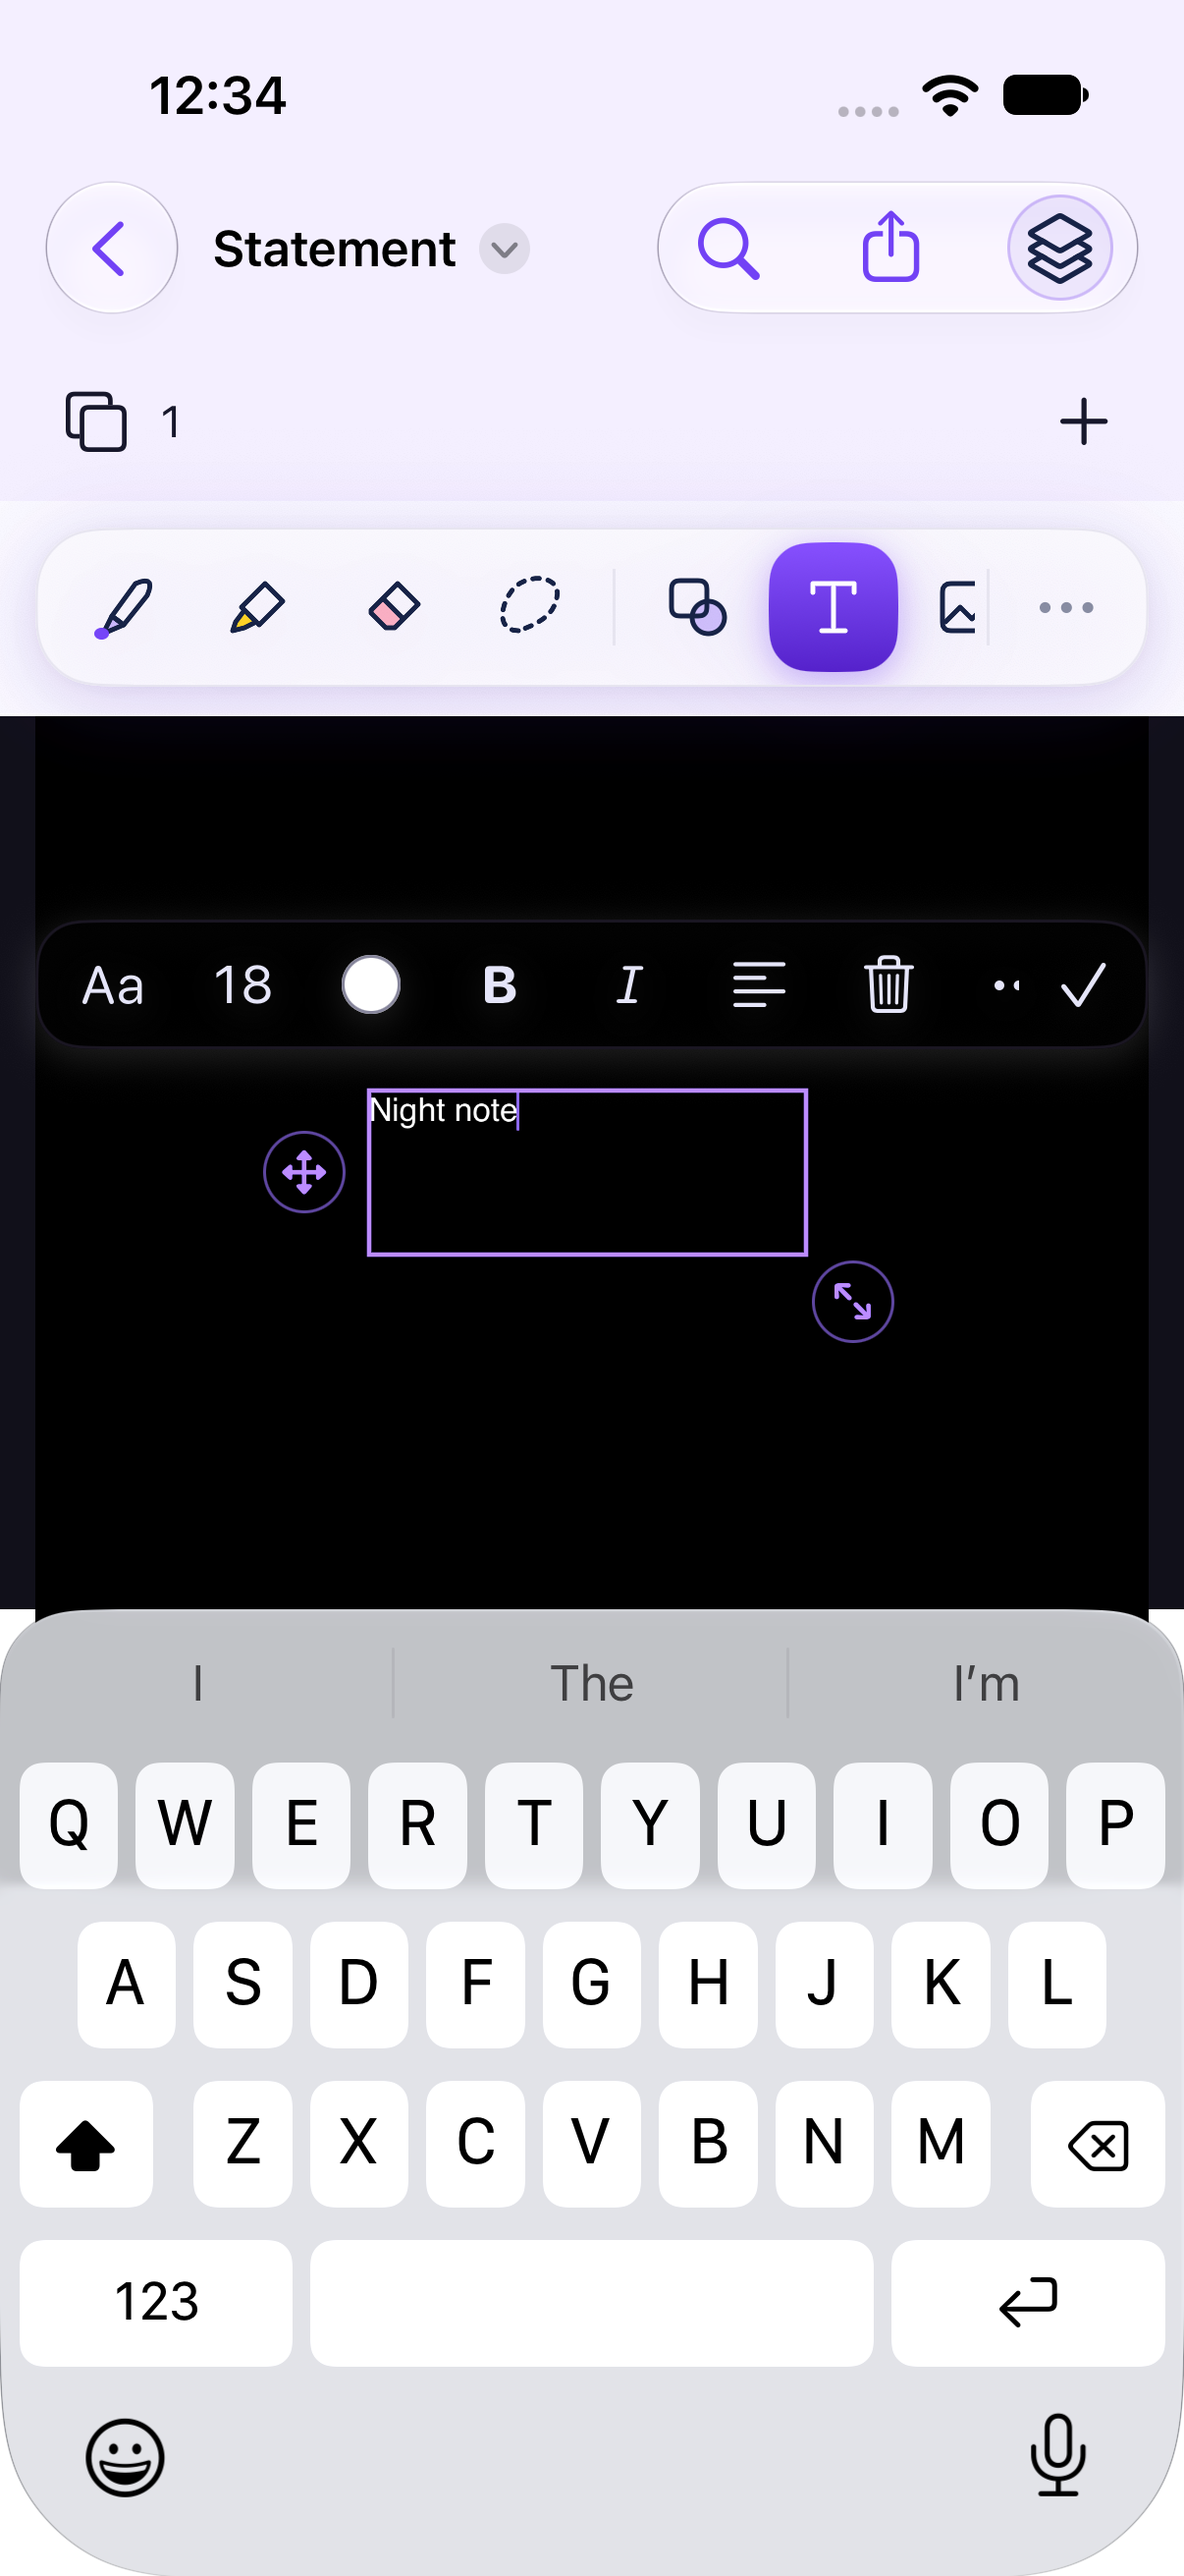
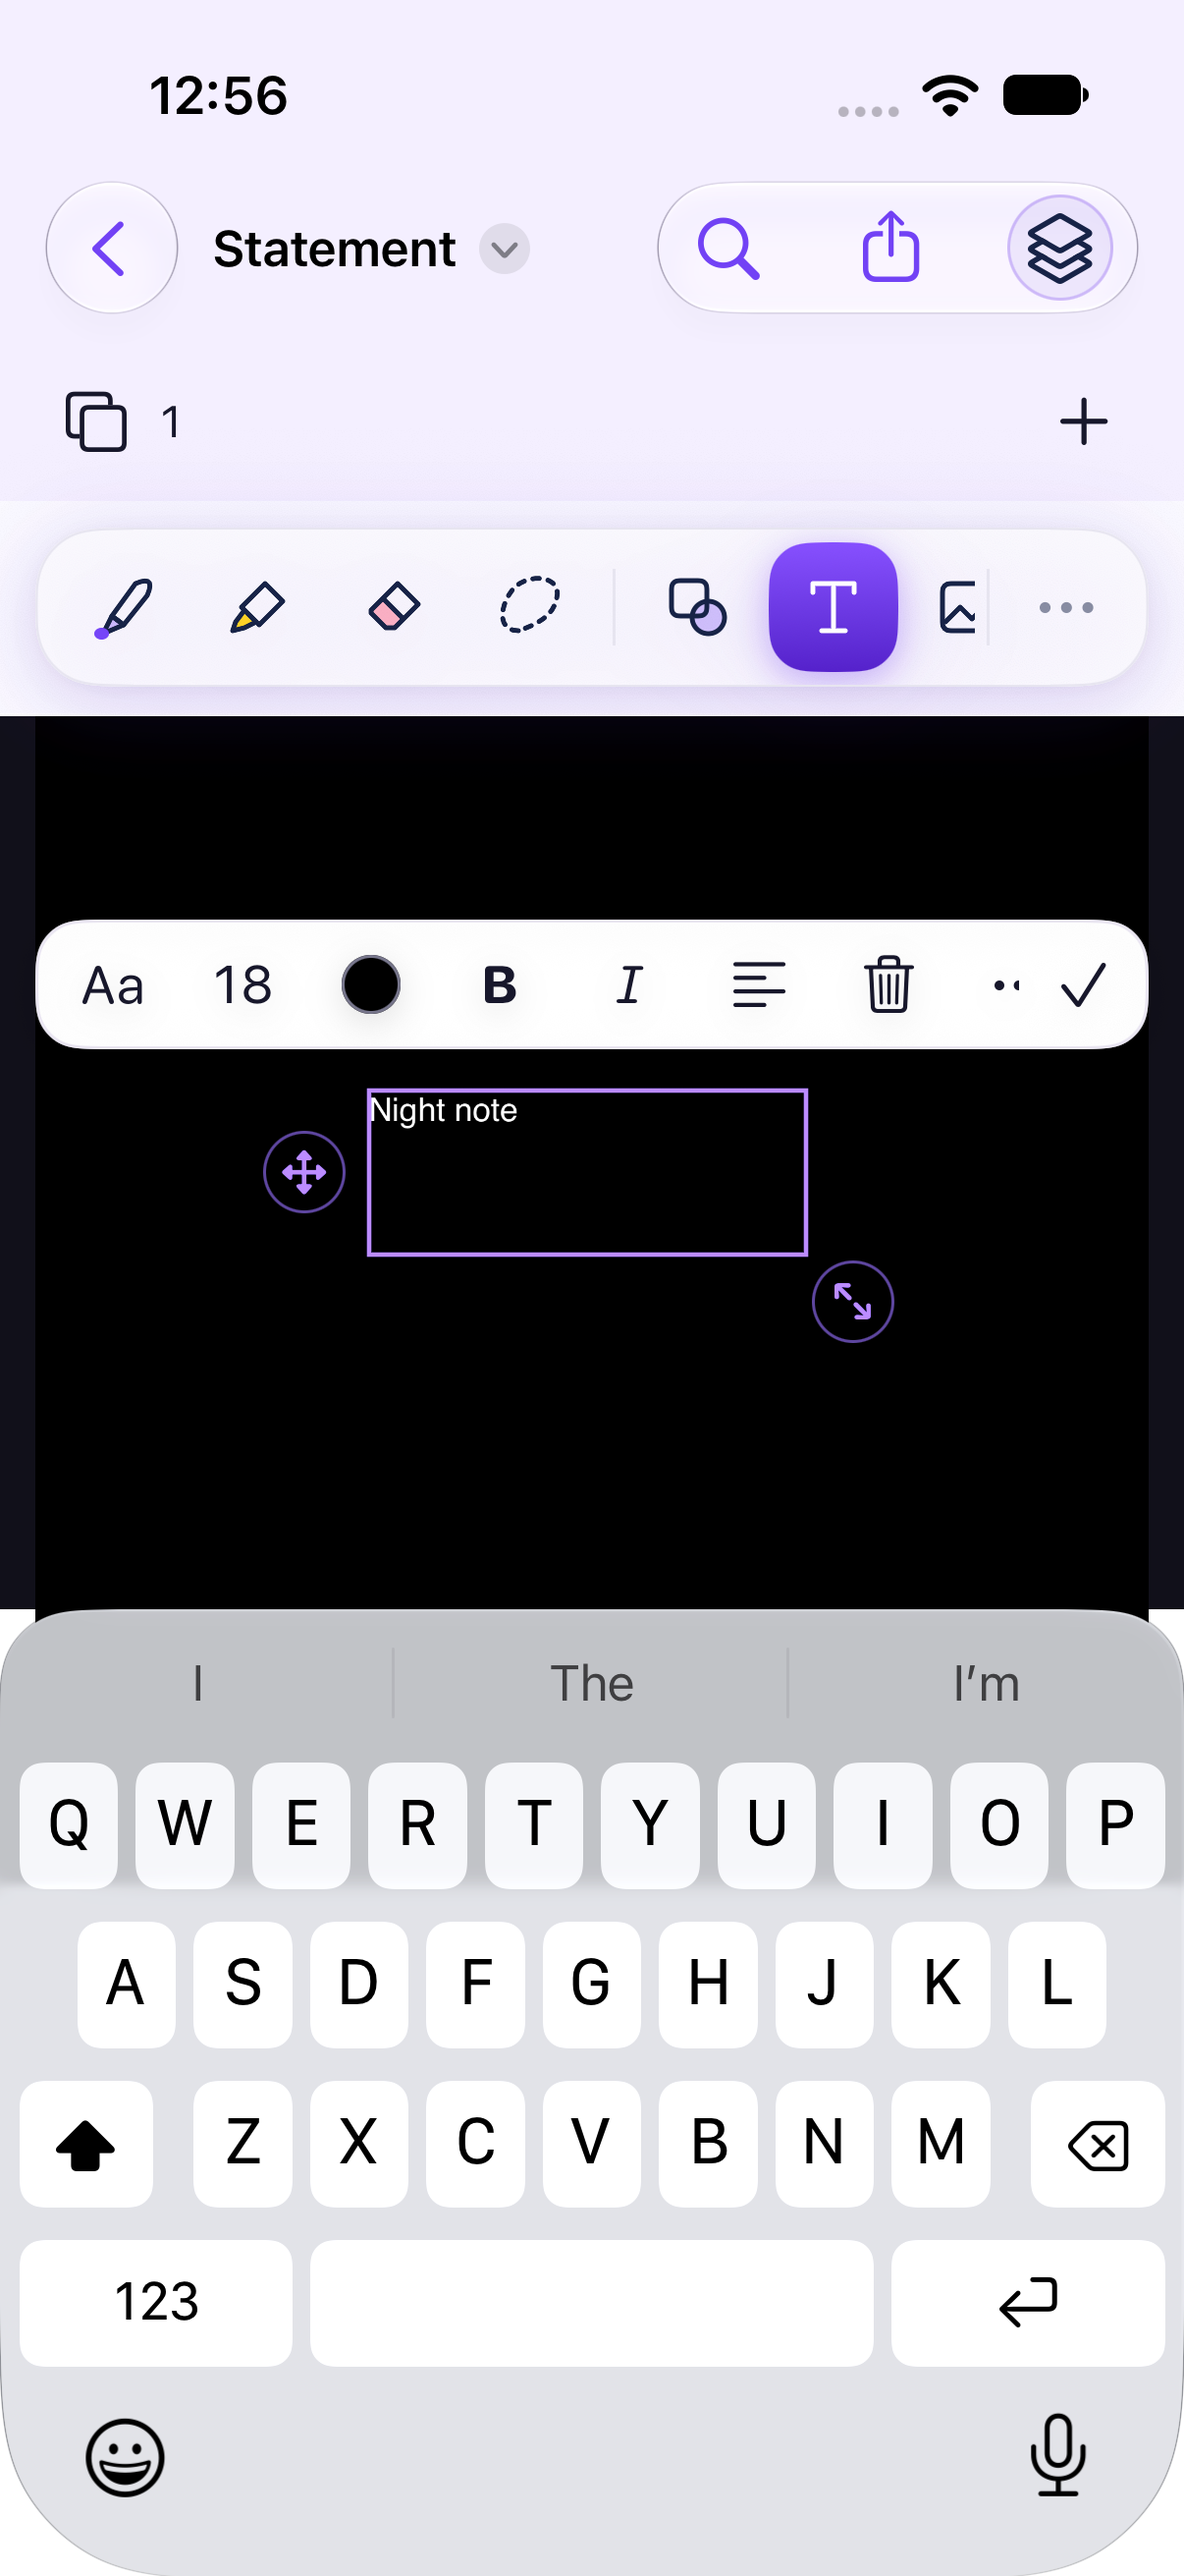
Keep the text box's formatting bar in day colours at night
Night mode turns everything drawn over the page, and the formatting bar
of a text box being typed in is drawn there. So at night the bar went
dark and the swatch for black text showed white: the opposite of the
colour chosen, though black was what got saved. Night mode's own rule
is that controls stay as they are.

The page's night filter is its own opposite, so giving the bar the same
filter again hands it back its day colours, while the words being typed
still turn with the page.

The night typing test now reads the swatch off the screen. On HEAD
without this it failed with the swatch at rgb(255,255,255); with it,
the night mode suite and the new suite pass on an iPad and an iPhone,
and the unit suite (1,029 tests) and the Mac build are clean. Also
corrects one sentence of the record: PDFAnnotationsUITests already
covered form-answer drawing on iOS.

Changed region(s): [[0.0307, 0.3398, 0.9818, 0.4325], [0.1841, 0.0309, 0.2454, 0.0618]]

diff --git a/Sources/PaperNestUI/InlineTextOverlay.swift b/Sources/PaperNestUI/InlineTextOverlay.swift
@@ -15,6 +15,8 @@ struct InlineTextOverlay: View {
     let zoom: CGFloat
     let undoManager: UndoManager?
     @State private var gestureFrame: CGRect?
+    /// Night mode turns everything drawn over the page, this overlay included.
+    @Environment(\.pageNightMode) private var isNight
 
     private var selectedBox: TextBox? { session.page?.id == page.id ? session.box : nil }
     private var marks: [PageObject] {
@@ -74,6 +76,12 @@ struct InlineTextOverlay: View {
                 let bar = InlineTextLayout.toolbarFrame(box: rect, visible: visible,
                     size: CGSize(width: 420, height: session.hasFailure ? 100 : 52))
                 InlineTextToolbar(session: session, sourceToView: sourceToView, undoManager: undoManager)
+                    // The bar is controls, not part of the page, and night mode
+                    // leaves controls as they are. It sits under the page's night
+                    // filter, which is its own opposite, so the same filter here
+                    // gives it back its day colours — without it the colour swatch
+                    // for black text showed white.
+                    .nightFilter(isNight)
                     .frame(width: max(1, bar.width), height: bar.height)
                     .position(x: bar.midX, y: bar.midY)
                 }

diff --git a/Apps/iOS/UITests/ReaderNightAndBookmarksUITests.swift b/Apps/iOS/UITests/ReaderNightAndBookmarksUITests.swift
@@ -161,6 +161,14 @@ import PaperNestStore
         let typing = pixels(app, in: editor.frame)
         XCTAssertGreaterThan(typing.count { max($0.r, $0.g, $0.b) > 170 }, 30,
                              "the words being typed do not show light on the dark page")
+        // The formatting bar is controls, not page, so night mode leaves it
+        // alone: the swatch for black text is black. It once showed white.
+        let swatch = app.buttons["inline-text-color"]
+        XCTAssertTrue(swatch.exists)
+        let centre = pixels(app, in: swatch.frame.insetBy(dx: swatch.frame.width * 0.4,
+                                                          dy: swatch.frame.height * 0.4))
+        XCTAssertLessThan(centre.brightest, 90,
+                          "the colour swatch for black text is not black at night: \(centre.average)")
         snap(app, "typing-at-night")
         app.buttons["inline-text-done"].tap()
         XCTAssertTrue(editor.waitForNonExistence(timeout: 10))

diff --git a/docs/TEST_MATRIX.md b/docs/TEST_MATRIX.md
@@ -39,7 +39,8 @@ suite's iPhone result is on iOS 27.0, not 27.1.
   back from the library on disk. The page reads light on dark again once the box is placed.
 - **A filled form at night.** A field whose answer PDFKit draws (`acroFormPDF`, "MMMMMMMM") shows the answer dark on
   light by day and **light on dark at night**, read off the screen in the field's own box. This is the first check
-  of `78d7e77`'s annotation drawing together with night mode, and the first on iOS of that drawing at all.
+  of `78d7e77`'s annotation drawing together with night mode. (`PDFAnnotationsUITests`, from that commit, already
+  covers the drawing itself on iOS by day.)
 - **⌘D from a hardware keyboard (iPad).** It shows the ribbon and saves one bookmark; ⌘D again removes both.
   Skipped on the phone by design: a phone has no menu bar for the shortcut to live in. **While it ran, the app's
   whole log was streamed at debug level** (about 41,000 lines from the app, 210 of them UIKit's): **no**
@@ -65,14 +66,19 @@ Screenshots: `docs/screenshots/reader-gaps-2026-11-14/`.
    The Mac was also nearly out of memory at the time (15.4 of 16 GB of swap). Check `pgrep -fl "xcodebuild test"`
    for a run on your simulator before starting one.
 
-**One thing seen and not fixed.** While a text box is being typed in at night, **its formatting bar is turned
-too**: the bar goes dark and the colour swatch for black text shows **white**
-(`docs/screenshots/reader-gaps-2026-11-14/iphone-typing-at-night.png`). The text is saved black — the test reads it
-back — so nothing wrong is stored, but the swatch tells the reader the opposite of the colour they chose. The bar is
-drawn in the page's overlay, under the night filter, which is why. The night mode entry's own rule is that the
-toolbars stay as they are. Left alone because the fix is in the editor's page surface in `DocumentView.swift`, where
-a stopped session's read-aloud edits are still uncommitted; it needs the bar lifted out of the filtered layer, not a
-colour patch.
+**One night-mode defect found by these runs, and fixed.** While a text box was being typed in at night, **its
+formatting bar was turned too**: the bar went dark and the colour swatch for black text showed **white**
+(`docs/screenshots/reader-gaps-2026-11-14/iphone-typing-at-night-before-fix.png`). Nothing wrong was stored — the
+text was saved black — but the swatch told the reader the opposite of the colour they had chosen, and night mode's
+own rule is that controls stay as they are. The bar is drawn in the page's overlay, under the page's night filter.
+**Fix:** `InlineTextOverlay.swift` gives the bar the same filter again; the filter is its own opposite (invert,
+then turn the hue half way round — for SwiftUI's hue matrix that is exact), so the bar is back in its day colours
+while the words being typed still turn. Two lines; `DocumentView.swift` untouched.
+`testTextTypedAtNightIsSavedInItsOwnColour` now reads the swatch off the screen. **Proved able to fail:** on `HEAD`
+without the fix it failed on iPad with the swatch at rgb(255,255,255) (`/tmp/pn-swatch-before.log`). With the fix:
+iPad **7/7** and iPhone 17 **6/6 + ⌘D skipped** across `NightModeUITests` and the new suite
+(`/tmp/pn-swatch-after-*.log`); unit suite **1,029 tests, 0 failures, 0 warnings**; Mac build clean. Not looked at:
+the bar at night on a Mac, and the colour picker popover (it opens in its own window, outside the filter either way).
 
 **Still not verified, plainly.** **The Mac** — screen access has been declined before and was not asked for again;
 night mode and bookmarks there have only been built. A physical iPad or iPhone, Apple Pencil, VoiceOver and the
